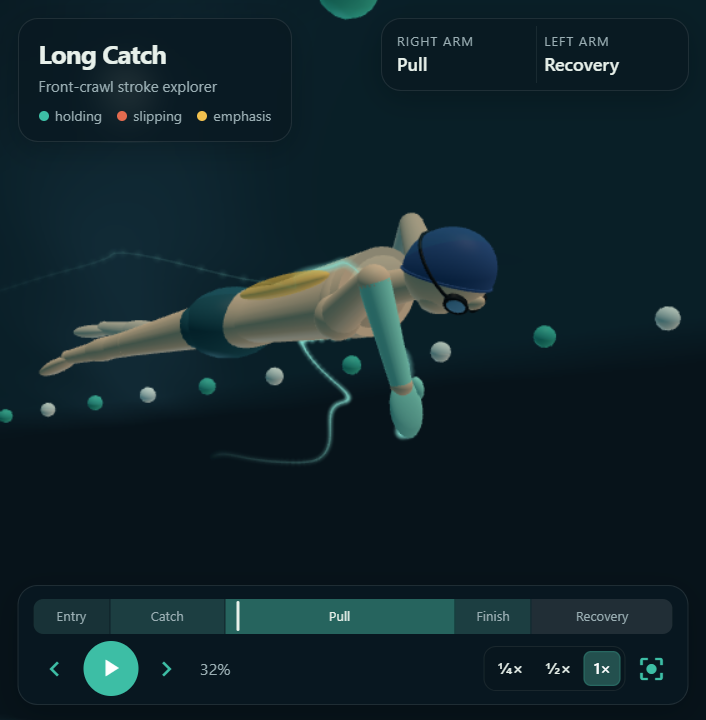
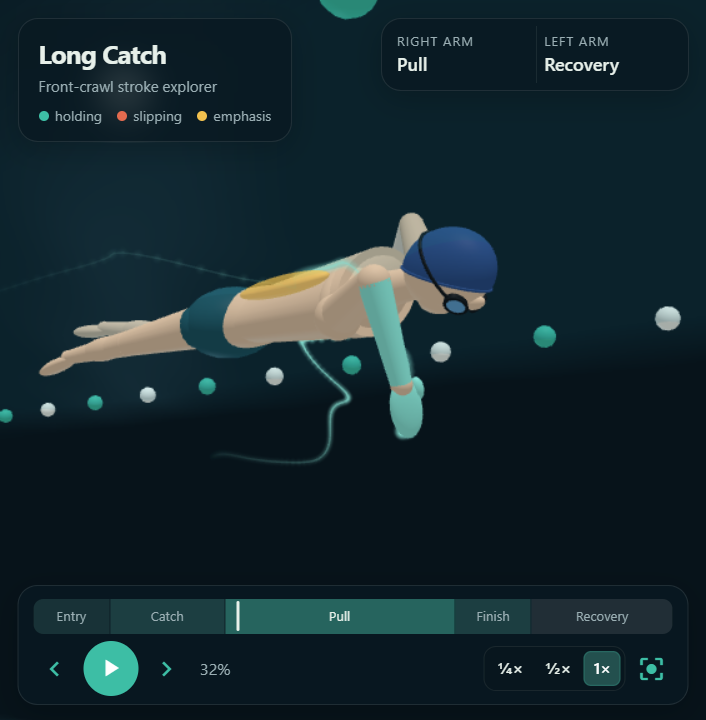
style: higher-contrast neutral lighting
Drop the warm hemisphere fill for white ambient, a stronger key light and a faint cool rim, so colours stay strong with clearer shading. Refresh README screenshots.

diff --git a/long_catch/static/engine.js b/long_catch/static/engine.js
@@ -358,18 +358,19 @@ window.LongCatch = window.LongCatch || (() => {
     g.putImageData(img, 0, 0);
   }
 
-  // Replace NiceGUI's flat default lights (strong ambient + one overhead light) with a simple pool rig:
-  // a sky/pool hemisphere fill, a warm key light from above, and a cool rim light from behind
-  // that separates the swimmer from the dark background. No shadows, so rendering cost is unchanged.
+  // Replace NiceGUI's flat default lights (strong ambient + one overhead light) with a higher-contrast rig.
+  // White light keeps the palette colours strong; less ambient and a stronger key light from above-front
+  // add shading, and a faint cool rim light from behind separates the swimmer from the dark water.
+  // No shadows, so rendering cost is unchanged.
   function setupLighting(group) {
     for (const light of S.el.scene.children.filter(o => o.isAmbientLight || o.isDirectionalLight)) {
       S.el.scene.remove(light);
     }
-    const key = new THREE.DirectionalLight(0xfff1dc, 1.7);
+    const key = new THREE.DirectionalLight(0xffffff, 1.9);
     key.position.set(3, -2.5, 6);
-    const rim = new THREE.DirectionalLight(0x86dcff, 0.6);
+    const rim = new THREE.DirectionalLight(0x9fe4ff, 0.5);
     rim.position.set(-4, 3, -1.5);
-    group.add(new THREE.HemisphereLight(0xfff6ea, 0x5a8f96, 1.7), key, rim);
+    group.add(new THREE.AmbientLight(0xffffff, 1.5), key, rim);
   }
 
   // Build the surface waves, pool floor, and lights once per scene; returns false until THREE has loaded.

diff --git a/README.md b/README.md
@@ -47,7 +47,7 @@ external services or network assets.
 | **Water feedback** | Hands and forearms turn teal when holding water and coral when slipping. Amber shows the selected muscle emphasis. |
 | **Cameras** | Orbit freely, or add a second Top, Side, Front or Below view in split view. |
 | **Pool** | A gently moving water surface with a bow wave at the head, over a tiled floor with drifting caustics. |
-| **Lighting** | A soft sky-and-pool fill, a warm main light from above and a cool rim light from behind, so the swimmer reads in 3D against the dark water. No shadows, so it stays light to render. |
+| **Lighting** | Neutral white light with a strong main light from above and a faint cool rim light from behind, for strong colours and clear shading against the dark water. No shadows, so it stays light to render. |
 | **Natural motion** | Breathing every third stroke on alternating sides: the head turns as that arm starts its recovery and is back down before the hand enters. Also a steady head, a slight body heave, and small stroke-to-stroke and kick-to-kick variation. Visual only; the metrics are unaffected. |
 | **Motion trails** | Fading trails for the hands, feet or both, adjustable from 0.5 to 5 seconds. |
 | **Stroke metrics** | Distance per stroke, strokes per 25 m and time per 25 m, updated live. |
